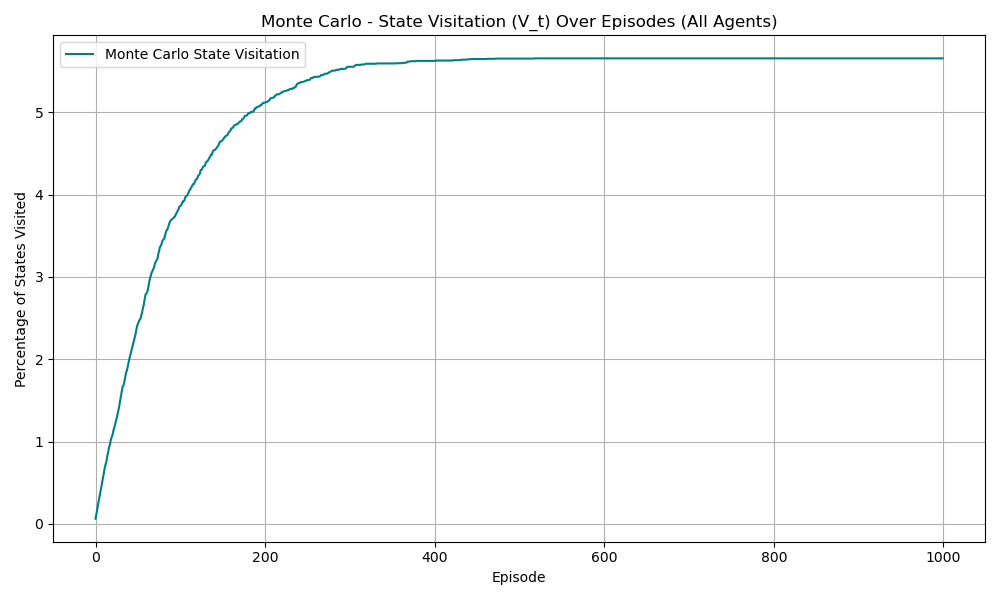
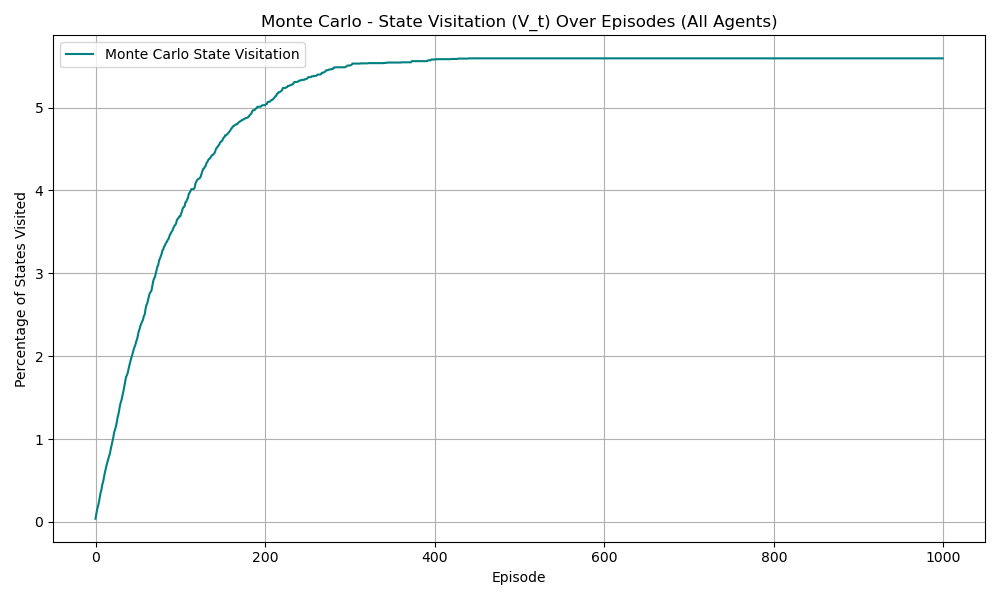
state visitation on one graph

diff --git a/metrics.py b/metrics.py
@@ -253,6 +253,35 @@ def plot_state_visitation(all_V_t, agent_class_name, save_path=None):
         plt.savefig(file_path)
     #plt.show()
     plt.close()
+    
+def plot_state_visitation_all(all_V_t, agent_class_names, save_path=None):
+    """
+    Plots the state visitation percentage (V_t) over episodes for all agents on a single graph.
+
+    :param all_V_t: A list of lists, where each sublist contains the V_t data (1D numpy array) for each agent.
+    :param agent_class_names: A list of agent class names corresponding to each sublist in all_V_t.
+    :param save_path: Optional path to save the plot as a PNG file.
+    """
+    plt.figure(figsize=(10, 6))
+    
+    for i, (V_t, agent_name) in enumerate(zip(all_V_t, agent_class_names)):
+        # Average V_t over all agents for each class
+        combined_V_t = np.mean(V_t, axis=0)
+        plt.plot(range(len(combined_V_t)), combined_V_t, label=f'{agent_name} State Visitation', color=AGENT_COLOR_PALETTE[i % len(AGENT_COLOR_PALETTE)])
+    
+    plt.xlabel('Episode')
+    plt.ylabel('Percentage of States Visited')
+    plt.title('State Visitation (V_t) Over Episodes (All Agents)')
+    plt.legend(loc='best')
+    plt.grid(True)
+    plt.tight_layout()
+    
+    if save_path:
+        file_path = os.path.join(save_path, "state_visitation_all_agents.png")
+        plt.savefig(file_path)
+    
+    #plt.show()
+    plt.close()
 
 def plot_agent_scores(agent_scores: np.ndarray, agent_name: str, save_path:str = None):
     """

diff --git a/main.py b/main.py
@@ -255,7 +255,8 @@ def createDict(label, agent, metrics):
         "scores": metrics['avg_scores'],
         "visits": metrics['state_action_visit_count'],
         "win_rates": metrics['avg_wins'],
-        "win_statuses": metrics['win_statuses']
+        "win_statuses": metrics['win_statuses'],
+        "visit_percentages": metrics["state_visit_percentages"]
     }
 
 
@@ -323,6 +324,7 @@ if __name__ == '__main__':
             metrics.plot_all_agents_scores_smoothed([x['scores'] for x in results], labels, save_path=METRICS_PATH)
             metrics.plot_winning_percentage_over_episodes([x['win_statuses'] for x in results], labels, save_path=METRICS_PATH)
             metrics.plot_state_action_distribution_all_logscale([x['visits'] for x in results], labels, save_path=METRICS_PATH)
+            metrics.plot_state_visitation_all([x['visit_percentages'] for x in results], labels, save_path=METRICS_PATH)
         else:
             print("At least two agents are required for comparison.")
 
